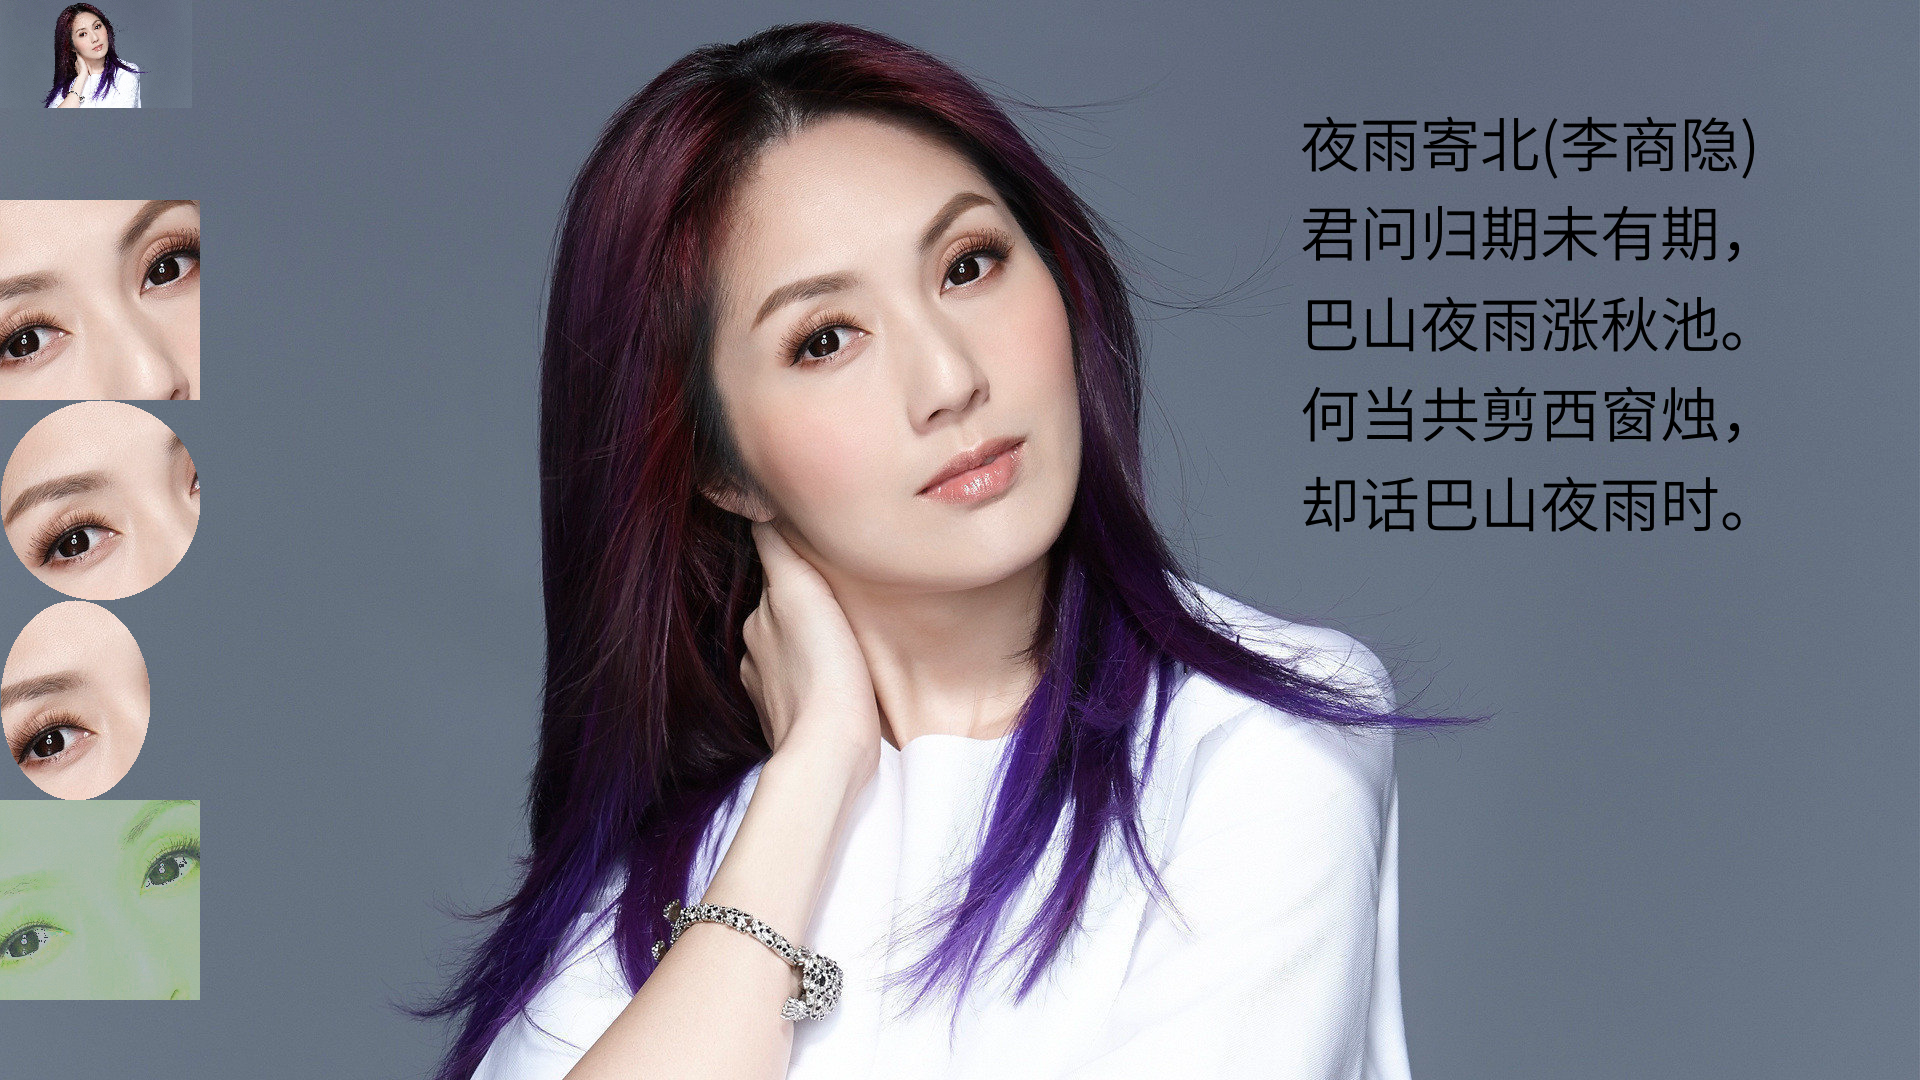
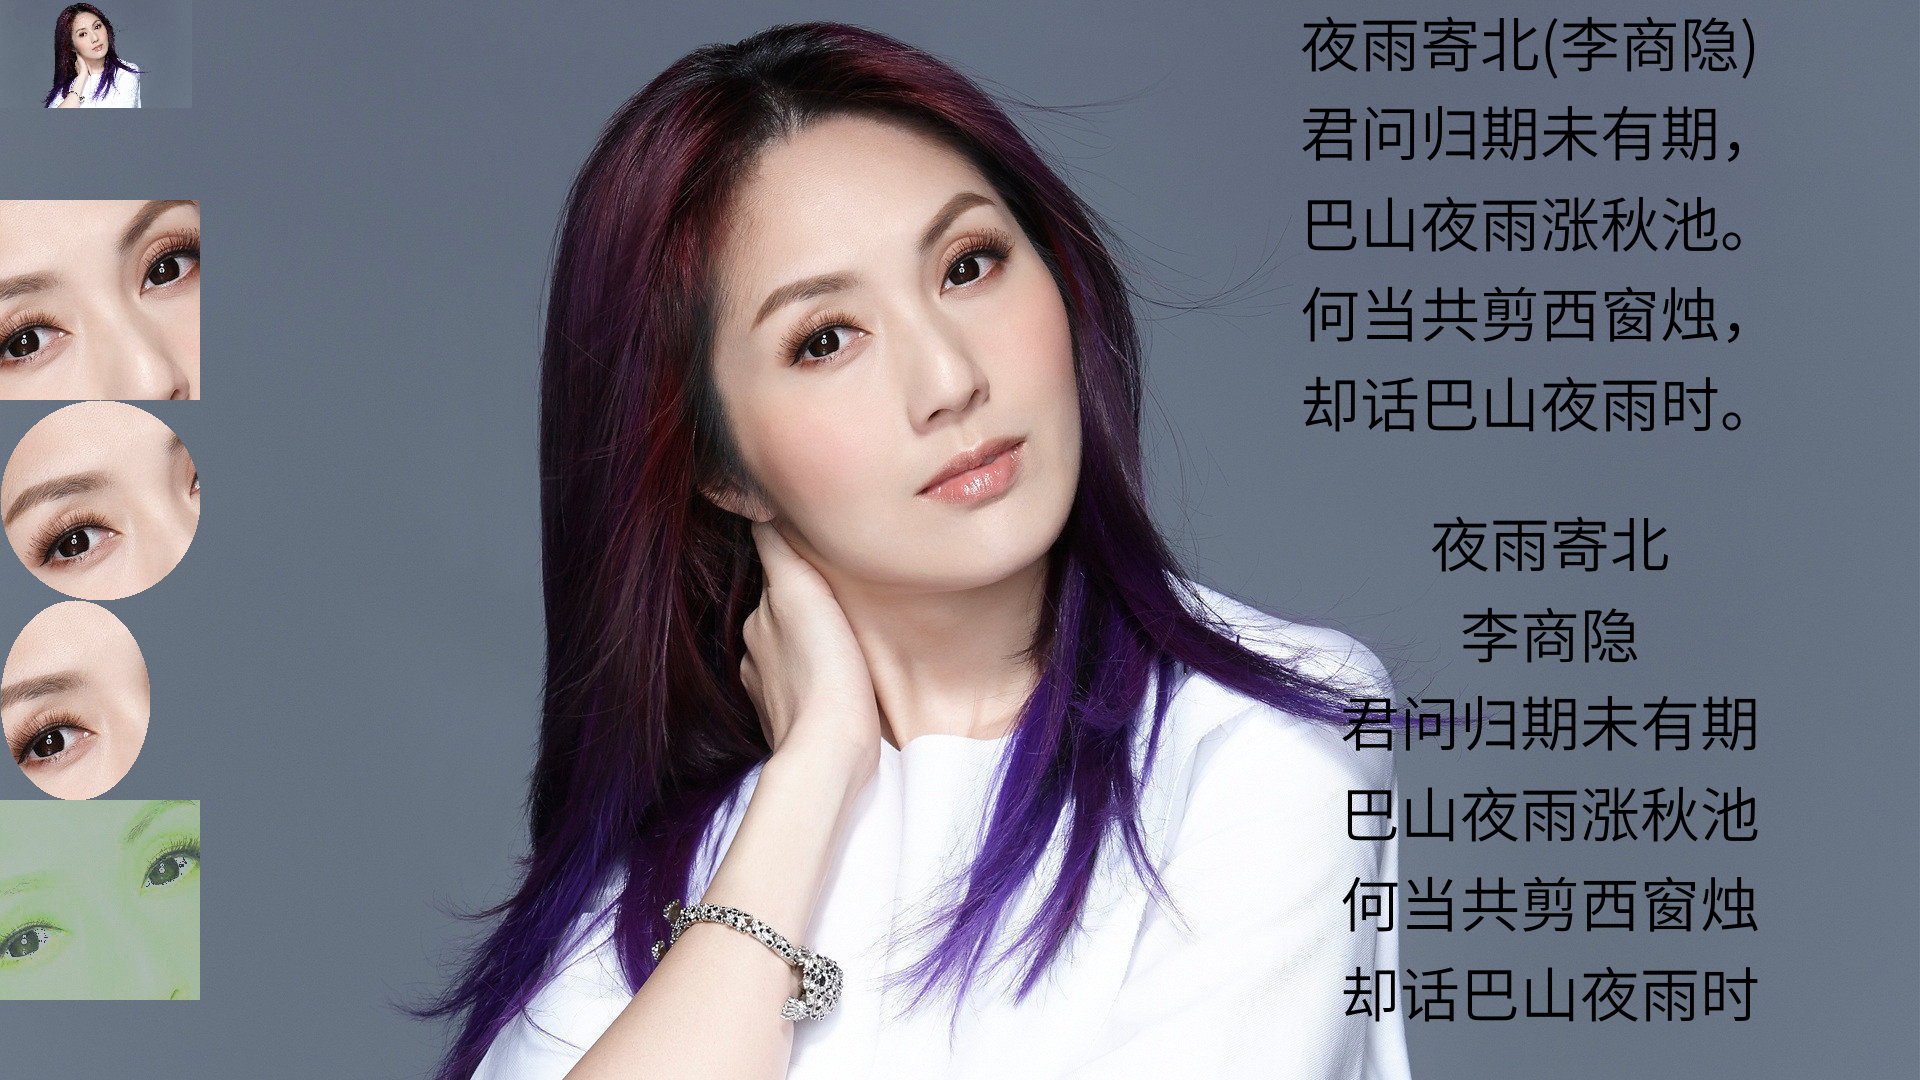
feat:新增多行文本方法

diff --git a/text.go b/text.go
@@ -72,6 +72,88 @@ func splitText(face font.Face, s string, maxWidth float64) []SplitText {
 	return stList
 }
 
+//计算字符串的长度
+func str2SplitText(face font.Face, str string) SplitText {
+	runeList := []rune(str)
+	width := 0.0
+	for _, r := range runeList {
+		advance, _ := face.GlyphAdvance(r)
+		width += float64(advance>>6) + float64(advance&(1<<6-1))*0.01
+	}
+	return SplitText{
+		Width: width,
+		Str:   str,
+	}
+}
+
+//处理多行超出提示
+func dealLineOut(face font.Face, list []SplitText, outStr string, maxLineNum int) []SplitText {
+	if maxLineNum <= 0 || len(list) <= maxLineNum {
+		return list
+	}
+	if len(outStr) == 0 {
+		return list[:maxLineNum]
+	}
+
+	list2 := list[:maxLineNum]
+
+	lastLine := list2[maxLineNum-1]
+	lastRuneList := []rune(lastLine.Str)
+	total := 0.00
+
+	outStrRune := []rune(outStr)
+	outStrWidth := 0.00
+	for _, s := range outStrRune {
+		advance, _ := face.GlyphAdvance(s)
+		outStrWidth += float64(advance>>6) + float64(advance&(1<<6-1))*0.01
+	}
+
+	for i := len(lastRuneList) - 1; i >= 0; i-- {
+		advance, _ := face.GlyphAdvance(lastRuneList[i])
+		total += float64(advance>>6) + float64(advance&(1<<6-1))*0.01
+		if total >= outStrWidth {
+			lastRuneList = append(lastRuneList[:i], outStrRune...)
+			list2[maxLineNum-1].Str = string(lastRuneList)
+
+			list2[maxLineNum-1].Width = list2[maxLineNum-1].Width - total + outStrWidth
+			break
+		}
+	}
+	return list2
+}
+
+//处理单行文本超出提示
+func dealSingleOut(face font.Face, str SplitText, outStr string, maxWidth float64) SplitText {
+
+	outStrRune := []rune(outStr)
+	outStrWidth := 0.00
+	for _, s := range outStrRune {
+		advance, _ := face.GlyphAdvance(s)
+		outStrWidth += float64(advance>>6) + float64(advance&(1<<6-1))*0.01
+	}
+
+	if str.Width <= maxWidth {
+		return str
+	}
+
+	strRuneList := []rune(str.Str)
+	total := 0.00
+	for i := 0; i < len(strRuneList); i++ {
+		advance, _ := face.GlyphAdvance(strRuneList[i])
+		w := float64(advance>>6) + float64(advance&(1<<6-1))*0.01
+
+		if total+w+outStrWidth > maxWidth {
+			return SplitText{
+				Str:   string(strRuneList[:i]) + outStr,
+				Width: total + outStrWidth,
+			}
+		}
+		total += w
+
+	}
+	return str
+}
+
 //像素转换成磅
 func pxToPoint(px int, dpi int) float64 {
 	return float64(px * dpi / 72)
@@ -89,6 +171,7 @@ type Text struct {
 	color      color.RGBA
 	lineHeight int
 	s          string
+	lines      []string
 }
 
 func NewText(s string) *Text {
@@ -163,7 +246,14 @@ func (t *Text) SetColor(rgba color.RGBA) *Text {
 //设置字符串
 func (t *Text) SetText(s string) *Text {
 	t.s = s
+	t.lines = nil
 	return t
+}
+
+//自定义多行字符串 每行字符串超出后都会按照 outStr处理
+func (t *Text) SetLineText(lines []string) {
+	t.lines = lines
+	t.s = ""
 }
 
 //实现FillItem接口
@@ -197,8 +287,14 @@ func (t *Text) draw(dst draw.Image) draw.Image {
 	}
 	maxWidth = float64(area.Max.X - area.Min.X)
 
-	//将一个字符串按最大绘制宽度分割成多行字体
-	splitTextList := t.dealOut(face, splitText(face, t.s, maxWidth))
+	var splitTextList []SplitText
+	if t.s != "" {
+		//将一个字符串按最大绘制宽度分割成多行字体
+		splitTextList = t.dealText(face, maxWidth)
+	} else {
+		//将一个字符串按最大绘制宽度分割成多行字体
+		splitTextList = t.dealLineText(face, maxWidth)
+	}
 
 	//行高
 	lineHeight := t.lineHeight
@@ -227,38 +323,16 @@ func (t *Text) draw(dst draw.Image) draw.Image {
 	return dst
 }
 
-//处理超出展示
-func (t Text) dealOut(face font.Face, list []SplitText) []SplitText {
-	if t.maxLineNum <= 0 || len(list) <= t.maxLineNum {
-		return list
+//转换自己设置的多行文本
+func (t *Text) dealLineText(face font.Face, maxWidth float64) []SplitText {
+	list := make([]SplitText, 0)
+	for _, line := range t.lines {
+		list = append(list, dealSingleOut(face, str2SplitText(face, line), t.outStr, maxWidth))
 	}
-	if len(t.outStr) == 0 {
-		return list[:t.maxLineNum]
-	}
+	return list
+}
 
-	list2 := list[:t.maxLineNum]
-
-	lastLine := list2[t.maxLineNum-1]
-	lastRuneList := []rune(lastLine.Str)
-	total := 0.00
-
-	outStrRune := []rune(t.outStr)
-	outStrWidth := 0.00
-	for _, s := range outStrRune {
-		advance, _ := face.GlyphAdvance(s)
-		outStrWidth += float64(advance>>6) + float64(advance&(1<<6-1))*0.01
-	}
-
-	for i := len(lastRuneList) - 1; i >= 0; i-- {
-		advance, _ := face.GlyphAdvance(lastRuneList[i])
-		total += float64(advance>>6) + float64(advance&(1<<6-1))*0.01
-		if total >= outStrWidth {
-			lastRuneList = append(lastRuneList[:i], outStrRune...)
-			list2[t.maxLineNum-1].Str = string(lastRuneList)
-
-			list2[t.maxLineNum-1].Width = list2[t.maxLineNum-1].Width - total + outStrWidth
-			break
-		}
-	}
-	return list2
+//转换字符串
+func (t Text) dealText(face font.Face, maxWidth float64) []SplitText {
+	return dealLineOut(face, splitText(face, t.s, maxWidth), t.outStr, t.maxLineNum)
 }

diff --git a/examples/main.go b/examples/main.go
@@ -14,7 +14,6 @@ func main() {
 
 	//尺寸调整
 	resizeImage := loadImage.Resize(192, 108)
-
 	//图片剪切
 	cutImage := loadImage.Cut(800, 200, 200, 200)
 	//圆形剪切
@@ -32,12 +31,25 @@ func main() {
 	colorImage.SetArea(0, 800, colorImage.Width(), colorImage.Height())
 	loadImage.Fill(resizeImage, cutImage, circleImage, ellipseImage, colorImage)
 
-	//文字绘制
+	//文字自动分行
 	fillText := imagedraw.NewText("夜雨寄北(李商隐)君问归期未有期，巴山夜雨涨秋池。何当共剪西窗烛，却话巴山夜雨时。")
 	fillText.SetFontSize(60)
 	fillText.SetLineHeight(90)
 	fillText.SetTextAlign("left")
-	fillText.SetArea(1300, 100, 500, 1000)
+	fillText.SetArea(1300, 0, 500, 1000)
+	loadImage.Fill(fillText)
+
+	//自定义分行
+	fillText.SetLineText([]string{
+		"夜雨寄北",
+		"李商隐",
+		"君问归期未有期",
+		"巴山夜雨涨秋池",
+		"何当共剪西窗烛",
+		"却话巴山夜雨时",
+	})
+	fillText.SetTextAlign("center")
+	fillText.SetArea(1300, 500, 500, 1000)
 	loadImage.Fill(fillText)
 
 	err = loadImage.SaveAs("image2.png")
